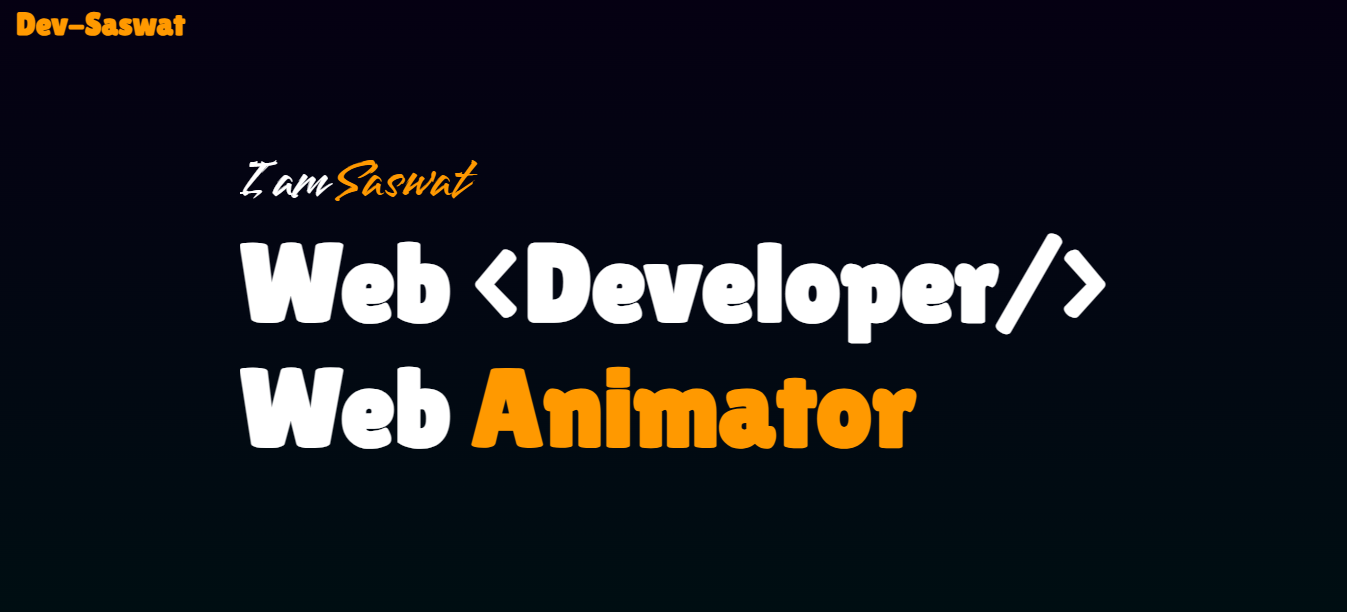
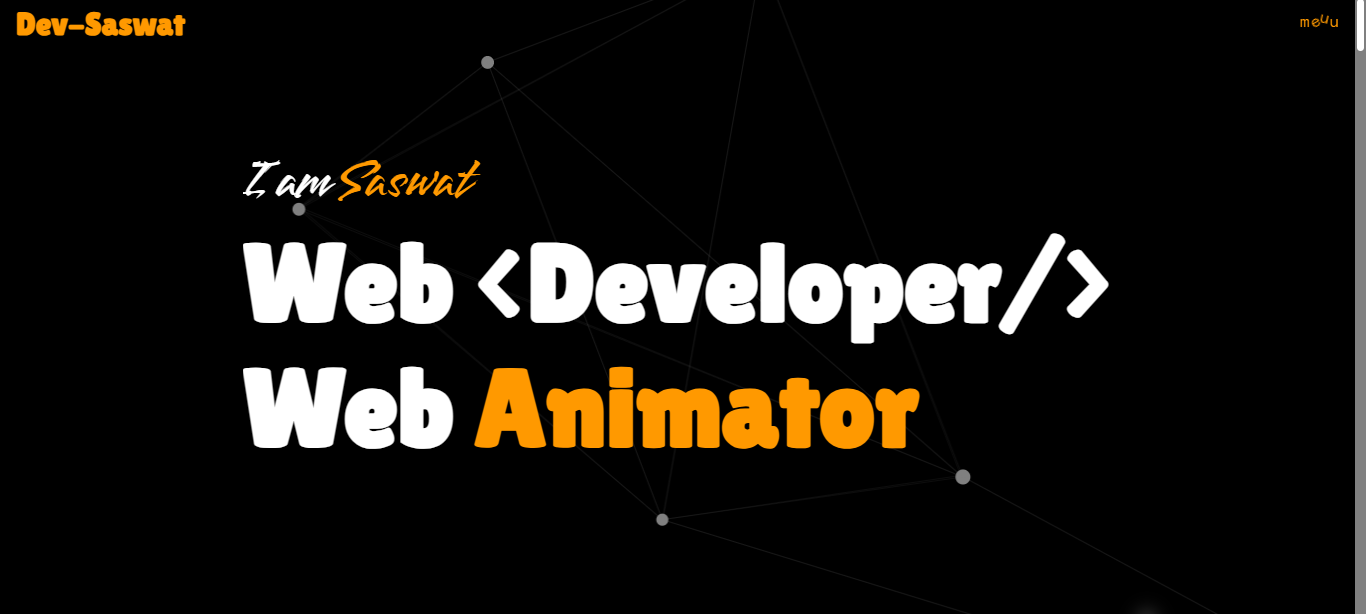
Background Changed

diff --git a/css/style.css b/css/style.css
@@ -7,6 +7,27 @@
     box-sizing: border-box;
     overflow-x: hidden;
 }
+::-webkit-scrollbar{
+    width: 0.7rem;
+}
+::-webkit-scrollbar-thumb{
+    background-color: white;
+    border-radius: 10px;
+    border: 2px solid gray;
+}
+::-webkit-scrollbar-thumb:hover{
+    background-color: orange;
+}
+::-webkit-scrollbar-track{
+    background-color: gray;
+}
+#canvas{
+    position: fixed;
+    width: 100%;
+    height: 100%;
+    background-color: black;
+    z-index: -1;
+}
 :root{
     --head-font: 'Lilita One', sans-serif;
     /* --head-font: 'Vina Sans', sans-serif; */
@@ -59,6 +80,9 @@ body{
     cursor: pointer;
     z-index: 3;
 }
+.head .menu span{
+    display: inline-block;
+}
 #navbar{
     position: fixed;
     top: 0;
@@ -96,7 +120,6 @@ body{
     flex-direction: column;
     align-items: center;
     justify-content: center;
-    background-image: linear-gradient(var(--col1), var(--col2));
     color: var(--text-color);
     overflow: hidden;
 }
@@ -112,9 +135,11 @@ body{
     font-family: var(--other-font);
     font-size: 4vw;
 }
-#hero span{
+#hero .ani, #hero .name{
+    position: relative;
     color: var(--span-color);
 }
+
 
 
 
@@ -126,7 +151,6 @@ body{
     display: grid;
     grid-template-columns: 50% 50%;
     color: white;
-    background-color: var(--col2);
     height: 100vh;
 }
 @media screen and (max-width: 900px) {
@@ -164,7 +188,6 @@ body{
     flex-direction: column;
     align-items: center;
     justify-content: center;
-    background-image: linear-gradient(var(--col2), var(--col1));
     color: white;
 }
 #skills h1{
@@ -185,47 +208,38 @@ body{
     background-color: var(--span-color);
     z-index: -1;
 }
-#skills .skill-con{
-    width: 100%;
-    display: flex;
-    align-items: center;
-    justify-content: space-around;
+
+#skills p{
+    width: 50%;
     font-family: var(--para-font);
-    font-size:1.2rem;
-} 
-@media screen and (max-width: 900px) {
-    #skills .skill-con{
-        flex-direction: column;
-        justify-content: space-between;
+    padding: 2rem 1rem;
+    font-size: 2rem;
+    border-bottom: 1px solid gray;
+}
+@media screen and (max-width: 1000px){
+    #skills h1{
+        font-size: 3rem;
+    }
+    #skills p{
+        width: 70%;
     }
 }
-.skill-con ul{
-    padding: 0.5rem;
-    height: 50vh;
-    display: flex;
-    flex-direction: column;
-    justify-content: space-between;
-    position: relative;
+@media screen and (max-width: 500px){
+    #skills h1{
+        font-size: 2rem;
+    }
+    #skills p{
+        width: 100%;
+    }
 }
-.skill-con ul::before{
-    content: "";
-    position: absolute;
-    bottom: 0;
-    left: 0;
-    height: 80%;
-    width: 1%;
-    background-color: gray;
-    border-radius: 5px;
-}
-.skill-con ul h3{
-    font-size:1.7rem;
+#skills p:nth-child(2n+1){
+    text-align: right;
 }
 
 
 #projects{
     width: 100%;
     height: 100vh;
-    background-image: linear-gradient(var(--col1), var(--col2));
     position: relative;
 }
 #projects .title{
@@ -306,32 +320,16 @@ body{
 
 footer{
     width: 100%;
-    color: gray;
+    height: 10vh;
+    color: white;
     display: flex;
     align-items: center;
     justify-content: center;
-    padding: 1rem 0;
-    background-image: linear-gradient(var(--col2), var(--col1));
     font-family: var(--para-font);
+    z-index: 2;
 }
 
 
-.code{
-    position: absolute;
-    top: 0;
-    left: 0;
-    color: orange;
-    width: 100%;
-    height: 100%;
-    display: flex;
-    align-items: center;
-    justify-content: center;
-    font-size: 10rem;
-    overflow: visible;
-}
-.code i{
-    text-shadow: 0 0 20px orange;
-    overflow: visible;
-}
+
 
 

diff --git a/index.html b/index.html
@@ -14,9 +14,10 @@
 
 <body>
     <div class="container">
+        <canvas id="canvas"></canvas>
         <div class="head">
             <h1 class="site-name">Dev-Saswat</h1>
-            <p class="menu">menu</p>
+            <p class="menu"><span>m</span><span>e</span><span>n</span><span>u</span></p>
             <nav id="navbar" class="navbar">
                 <a href="#hero" onclick="lenis.scrollTo('#hero')">TOP</a>
                 <a href="#about" onclick="lenis.scrollTo('#about')">ABOUT</a>
@@ -27,9 +28,9 @@
         <main class="wrapper">
             <section id="hero" class="hero">
                 <div class="me">
-                    <p>I am <span>Saswat</span></p>
+                    <p>I am <span class="name">Saswat</span></p>
                     <h1>Web &lt;Developer/&gt;</h1>
-                    <h1>Web <span class="ani">Animator</span></h1>
+                    <h1><span>Web</span> <span class="ani">Animator</span></h1>
                 </div>
             </section>
             <section id="about" class="about">
@@ -46,23 +47,12 @@
             </section>
             <section id="skills" class="skills">
                 <h1>My Expertise</h1>
-                <div class="skill-con">
-                    <ul class="language">
-                        <h3>Programming Language</h3>
-                        <li>-Python</li>
-                        <li>-C</li>
-                        <li>-Java</li>
-                        <li>-JavaScript</li>
-                    </ul>
-                    <ul class="development">
-                        <h3>Frontend Development</h3>
-                        <li>-HTML</li>
-                        <li>-CSS</li>
-                        <li>-JavaScript</li>
-                        <li>-React</li>
-                        <li>-GSAP(for animation)</li>
-                    </ul>
-                </div>
+                <p>HTML</p>
+                <p>CSS</p>
+                <p>JavaScript</p>
+                <p>React</p>
+                <p>Python</p>
+                <p>C</p>
             </section>
             <section id="projects" class="projects">
                 <h1 class="title"><span>Pro</span>jects</h1>
@@ -107,11 +97,12 @@
                 </div>
             </section>
         </main>
-        <footer>
-            <p>saswatlibu@gmail.com</p>
-        </footer>
     </div>
+    <footer>
+        <p>saswatlibu@gmail.com</p>
+    </footer>
     <div class="cursor"></div>
+    <script src="./js/canvas.js"></script>
     <script src="./gsap/gsap.min.js"></script>
     <script src="./gsap/ScrollTrigger.min.js"></script>
     <script src="https://cdn.jsdelivr.net/gh/studio-freight/lenis@1.0.29/bundled/lenis.min.js"></script>

diff --git a/js/canvas.js b/js/canvas.js
@@ -1,0 +1,76 @@
+const canvas = document.getElementById("canvas");
+const ctx = canvas.getContext("2d");
+canvas.width = window.innerWidth;
+canvas.height = window.innerHeight;
+let particleArray = [];
+
+mouse = {
+    x: null,
+    y: null,
+}
+window.addEventListener("mousemove", function (event) {
+    mouse.x = event.x;
+    mouse.y = event.y;
+})
+
+
+class Particle {
+    constructor() {
+        this.x = Math.random() * canvas.width;
+        this.y = Math.random() * canvas.height;
+        this.size = Math.random() * 20 + 1;
+        this.speedX = Math.random() * 5 - 2;
+        this.speedY = Math.random() * 5 - 2;
+    }
+    update() {
+        this.x += this.speedX;
+        this.y += this.speedY;
+        this.size -= 0.05;
+    }
+    draw() {
+        ctx.beginPath();
+        ctx.fillStyle = "gray";
+        ctx.arc(this.x, this.y, this.size, 0, 2 * Math.PI);
+        ctx.fill();
+    }
+}
+
+function init(){
+    for(i=0;i<2;i++){
+        particleArray.push(new Particle);
+    }
+}
+setInterval(() => {
+    init(); 
+}, 1000);
+
+function manageParticle(){
+    for(i=0;i<particleArray.length;i++){
+        particleArray[i].update();
+        particleArray[i].draw();
+        for(j=0;j<particleArray.length;j++){
+            let dx = particleArray[i].x - particleArray[j].x;
+            let dy = particleArray[i].y - particleArray[j].y;
+            let distance = Math.sqrt(dx * dx + dy * dy);
+            if(distance < 1000){
+                ctx.beginPath();
+                ctx.strokeStyle = "gray";
+                ctx.lineWidth = 0.1;
+                ctx.moveTo(particleArray[i].x, particleArray[i].y);
+                ctx.lineTo(particleArray[j].x, particleArray[j].y);
+                ctx.stroke();
+            }
+        }
+        if(particleArray[i].size <= 1){
+            particleArray.splice(i, 1);
+            i--;
+        }
+    }
+}
+
+function animate() {
+    ctx.clearRect(0, 0, canvas.width, canvas.height);
+    manageParticle();
+    requestAnimationFrame(animate);
+}
+animate();

diff --git a/anim/skills.js b/anim/skills.js
@@ -1,11 +1,12 @@
 gsap.registerPlugin(ScrollTrigger);
 gsap.from("#skills h1", {y: 50, opacity: 0, scrollTrigger: {
     trigger: "#skills",
-    start: "top 40%",
+    start: "top 80%",
     toggleActions: "play reverse play reverse",
 }});
-gsap.from("#skills .skill-con", {scale: 0.1, opacity: 0, scrollTrigger: {
+
+gsap.from("#skills p", {x: -100, opacity: 0, scrollTrigger: {
     trigger: "#skills",
-    start: "top 20%",
+    start: "top 60%",
     toggleActions: "play reverse play reverse",
 }});

diff --git a/anim/hero.js b/anim/hero.js
@@ -1,10 +1,13 @@
 gsap.registerPlugin(ScrollTrigger);
 
-gsap.from("#hero .me", {opacity: 0, duration: 1, y: 100, scrollTrigger: {
-    trigger: "#hero",
-    top: "top top",
-    end: "center top",
-    toggleActions: "play reverse play reverse",
-}});
+gsap.from("#hero .me", {
+    opacity: 0, duration: 1, y: 100, scrollTrigger: {
+        trigger: "#hero",
+        top: "top top",
+        end: "center top",
+        toggleActions: "play reverse play reverse",
+    }
+});
+
 
 

diff --git a/anim/nav.js b/anim/nav.js
@@ -1,6 +1,8 @@
 const menu = document.querySelector(".head .menu");
 const navbar = document.querySelector("#navbar");
 
+gsap.to(".menu span", 1, {rotationZ: 360, stagger: 0.4, yoyo: true, repeat: -1, repeatDelay: 1});
+
 menu.addEventListener("click", function(){
     navbar.classList.toggle("nav-active");
 });
